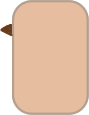
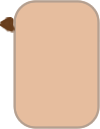
Fixes to requests to allow viewing, submitting when not logged in

diff --git a/app/assets/stylesheets/requests.css.scss b/app/assets/stylesheets/requests.css.scss
@@ -224,13 +224,16 @@ float:right;
 	margin-bottom:-14px;
 }
 .response_user {	
- 	/*background-color:#CCCCCC;*/
+ 	/*background-color:#ffffff;*/
 	background-image:url('speech.png');
+	background-repeat:no-repeat;
 	font-size:small;
-	width:90px;
+	width:100px;
+	height:130px;
 	float:right;
 	padding:2px;
 	text-align:center;
+	
  }
 .response_text {
 	padding:7px 7px;
@@ -281,7 +284,7 @@ float:right;
 	float:right;
 }		
 .r_avatar {
-	margin-top:0px;
+	margin-top:2px;
 	margin-left:10px;
 	height:40px;
 

diff --git a/app/controllers/requests_controller.rb b/app/controllers/requests_controller.rb
@@ -1,5 +1,5 @@
 class RequestsController < ApplicationController
-before_filter :require_login, :only => [:add_response, :new, :create]
+before_filter :require_login, :only => [:add_response, :create]
 
 
 
@@ -35,7 +35,11 @@ before_filter :require_login, :only => [:add_response, :new, :create]
     @request = Request.find(params[:id])
 	@responses = Response.where(:request_id => params[:id])
 	@response_new = Response.new(params[:response])
-	@response_new.user_id = current_user.id
+	if current_user 
+	then @response_new.user_id = current_user.id 
+	else 
+	@response_new.user_id = 8 
+	end 
 	@response_new.request_id = params[:id]
     respond_to do |format|
       format.html # show.html.erb
@@ -48,7 +52,12 @@ before_filter :require_login, :only => [:add_response, :new, :create]
   def new
 	#authorize! :create, Request, :message => "Must login to add a request."
     @request = Request.new
-	@request.user_id = current_user.id
+	#@request.user_id = current_user.id if current_user != nil else @request.user_id = 8
+		if current_user 
+	then @request.user_id = current_user.id 
+	else 
+	@request.user_id = 8 
+	end
     respond_to do |format|
       format.html # new.html.erb
       format.json { render json: @request }
